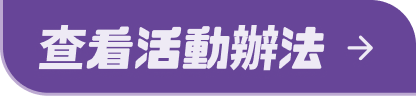
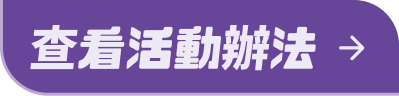
Update checkevent.png and adjust button position in HomePage.vue for improved layout

diff --git a/src/views/HomePage.vue b/src/views/HomePage.vue
@@ -100,7 +100,7 @@ onMounted(() => {
       <button
         type="button"
         aria-label="查看活動辦法"
-        class="tap-feedback absolute right-4 top-[129px] block w-[152px] max-w-[48%] rounded-full disabled:opacity-55 focus-visible:outline-none focus-visible:ring-2 focus-visible:ring-[#674598] focus-visible:ring-offset-2"
+        class="tap-feedback absolute right-4 top-[128px] block w-[152px] max-w-[48%] rounded-full disabled:opacity-55 focus-visible:outline-none focus-visible:ring-2 focus-visible:ring-[#674598] focus-visible:ring-offset-2"
         :disabled="isRouting || isCheckingTeam"
         @click="onCheckEventClick"
       >
